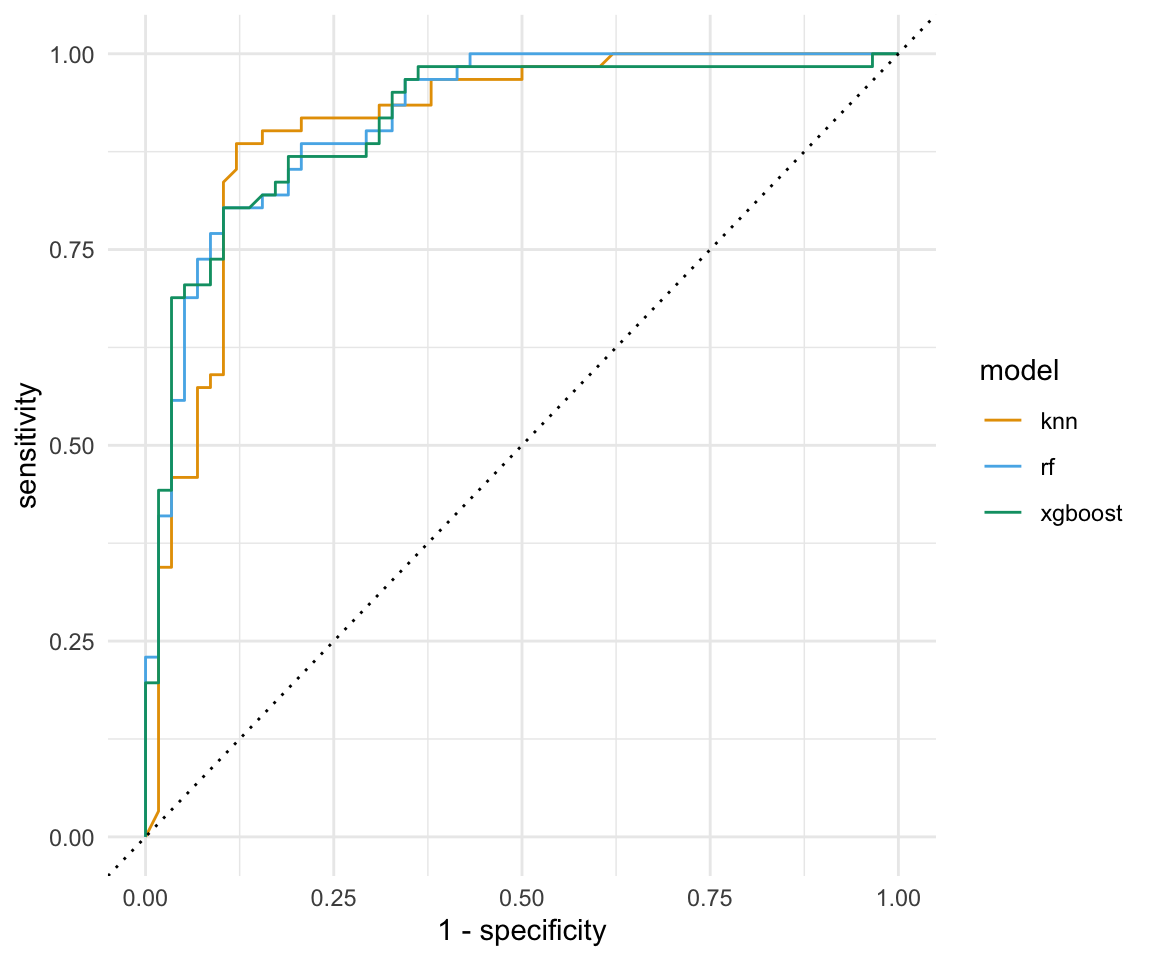
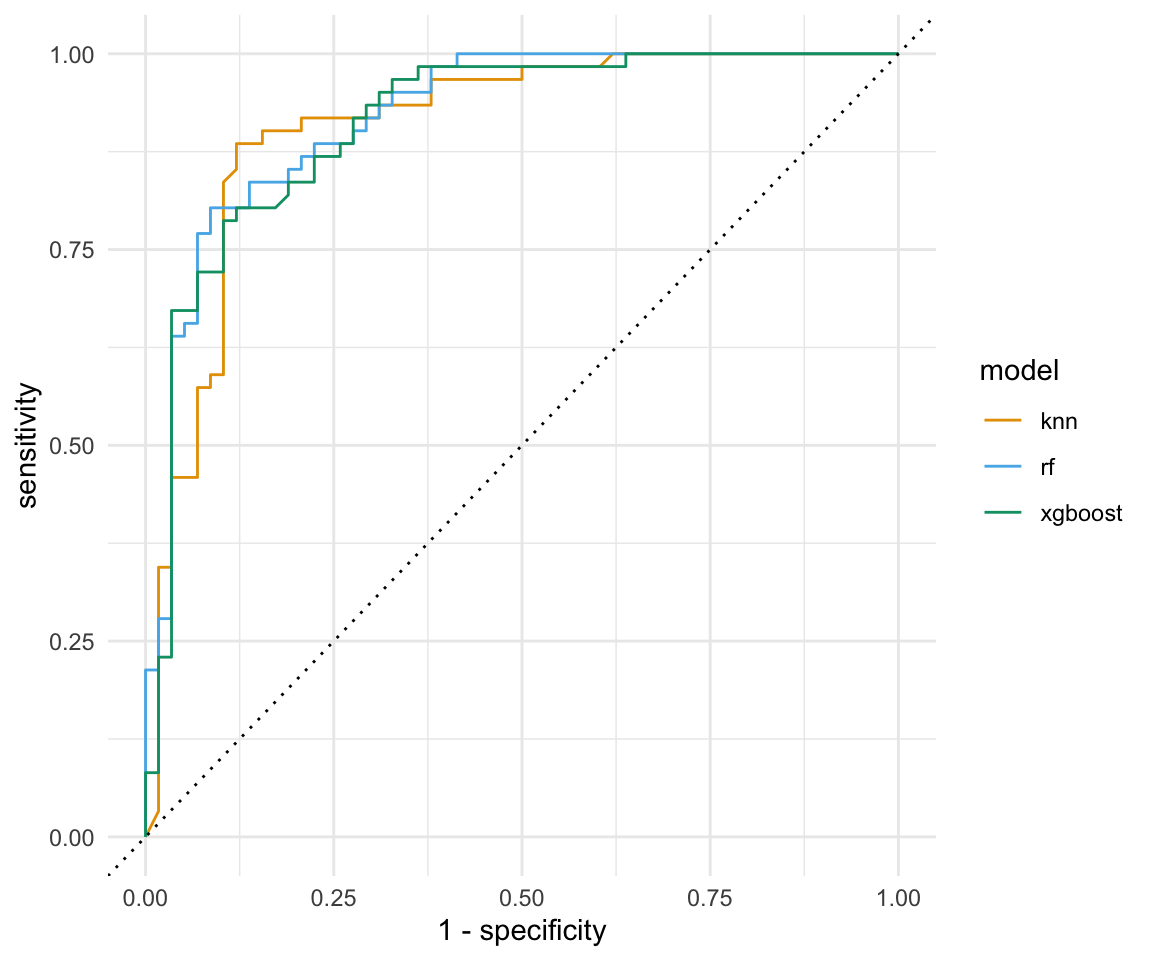
added text

diff --git a/docs/classification-model-compare.html b/docs/classification-model-compare.html
@@ -588,7 +588,7 @@ div.csl-indent {
 </header><div class="cell">
 
 </div>
-<p><em>Version vom December 02, 2022 um 13:55:12</em></p>
+<p><em>Version vom December 02, 2022 um 15:15:36</em></p>
 <div class="quarto-figure quarto-figure-center">
 <figure class="figure"><p><img src="images/caution.png" class="img-fluid figure-img" style="width:50.0%"></p>
 </figure>
@@ -773,7 +773,7 @@ Tuning und Resampling?
 5 gender     &lt;chr [3]&gt; outcome   original</code></pre>
 </div>
 </div>
-<p>Alles in allem haben wir ein sehr kleines Modell. Wir haben ja nur ein Outcome und vier Prädiktoren. Trotzdem sollte dieser Datensatz reichen um zu erklären wie Entscheidungsbäume funktionieren.</p>
+<p>Im Folgenden vergleichen wir einmal drei Algorithmen miteinander. Daher halten wir den Code für die Durchführung sehr kurz.</p>
 </section><section id="k-nn-algorithm" class="level2" data-number="56.3"><h2 data-number="56.3" class="anchored" data-anchor-id="k-nn-algorithm">
 <span class="header-section-number">56.3</span> <span class="math inline">\(k\)</span>-NN Algorithm</h2>
 <div class="callout-note callout callout-style-default callout-captioned">
@@ -789,23 +789,25 @@ Huch, der Code ist aber sehr kurz…
 <p>In diesem Teil halte ich den R Code sehr kurz, wenn du mehr über den <span class="math inline">\(k\)</span>-NN Algorithmus wissen willst, schaue bitte in <a href="classification-knn.html"><span>Kapitel&nbsp;52</span></a>.</p>
 </div>
 </div>
+<p>Für den <span class="math inline">\(k\)</span>-NN Algorithmus nutzen wir <span class="math inline">\(k=11\)</span> Nachbarn. Mehr brauchen wir hier nicht angeben.</p>
 <div class="cell">
 <div class="sourceCode" id="cb7"><pre class="downlit sourceCode r code-with-copy"><code class="sourceCode R"><span><span class="va">knn_mod</span> <span class="op">&lt;-</span> <span class="fu">nearest_neighbor</span><span class="op">(</span>neighbors <span class="op">=</span> <span class="fl">11</span><span class="op">)</span> <span class="op">%&gt;%</span> </span>
 <span>  <span class="fu">set_engine</span><span class="op">(</span><span class="st">"kknn"</span><span class="op">)</span> <span class="op">%&gt;%</span> </span>
 <span>  <span class="fu">set_mode</span><span class="op">(</span><span class="st">"classification"</span><span class="op">)</span> </span></code><button title="In die Zwischenablage kopieren" class="code-copy-button"><i class="bi"></i></button></pre></div>
 </div>
+<p>Dann nehmen wir das Modell für den <span class="math inline">\(k\)</span>-NN Algorithmus und verbinden das Modell mit dem Rezept für die Gummibärchendaten in einem Workflow.</p>
 <div class="cell">
 <div class="sourceCode" id="cb8"><pre class="downlit sourceCode r code-with-copy"><code class="sourceCode R"><span><span class="va">knn_wflow</span> <span class="op">&lt;-</span> <span class="fu">workflow</span><span class="op">(</span><span class="op">)</span> <span class="op">%&gt;%</span> </span>
 <span>  <span class="fu">add_model</span><span class="op">(</span><span class="va">knn_mod</span><span class="op">)</span> <span class="op">%&gt;%</span> </span>
 <span>  <span class="fu">add_recipe</span><span class="op">(</span><span class="va">gummi_rec</span><span class="op">)</span></span></code><button title="In die Zwischenablage kopieren" class="code-copy-button"><i class="bi"></i></button></pre></div>
 </div>
+<p>Nun können wir auch schon den Fit des Modells rechnen und in einem Rutsch den Fit auch gleich auf die Testdaten anwenden.</p>
 <div class="cell">
-<div class="sourceCode" id="cb9"><pre class="downlit sourceCode r code-with-copy"><code class="sourceCode R"><span><span class="va">knn_fit</span> <span class="op">&lt;-</span> <span class="va">knn_wflow</span> <span class="op">%&gt;%</span> </span>
-<span>  <span class="fu">parsnip</span><span class="fu">::</span><span class="fu"><a href="https://generics.r-lib.org/reference/fit.html">fit</a></span><span class="op">(</span><span class="va">gummi_train_data</span><span class="op">)</span></span></code><button title="In die Zwischenablage kopieren" class="code-copy-button"><i class="bi"></i></button></pre></div>
+<div class="sourceCode" id="cb9"><pre class="downlit sourceCode r code-with-copy"><code class="sourceCode R"><span><span class="va">knn_aug</span> <span class="op">&lt;-</span> <span class="va">knn_wflow</span> <span class="op">%&gt;%</span> </span>
+<span>  <span class="fu">parsnip</span><span class="fu">::</span><span class="fu"><a href="https://generics.r-lib.org/reference/fit.html">fit</a></span><span class="op">(</span><span class="va">gummi_train_data</span><span class="op">)</span> <span class="op">%&gt;%</span> </span>
+<span>   <span class="fu">augment</span><span class="op">(</span><span class="va">gummi_test_data</span><span class="op">)</span></span></code><button title="In die Zwischenablage kopieren" class="code-copy-button"><i class="bi"></i></button></pre></div>
 </div>
-<div class="cell">
-<div class="sourceCode" id="cb10"><pre class="downlit sourceCode r code-with-copy"><code class="sourceCode R"><span><span class="va">knn_aug</span> <span class="op">&lt;-</span> <span class="fu">augment</span><span class="op">(</span><span class="va">knn_fit</span>, <span class="va">gummi_test_data</span> <span class="op">)</span> </span></code><button title="In die Zwischenablage kopieren" class="code-copy-button"><i class="bi"></i></button></pre></div>
-</div>
+<p>Mehr wollen wir hier auch nicht. Wir brauchen nur die Prädiktion, da wir hier ja nur das Konzept der Modellvergleiche einmal durchgehen wollen.</p>
 </section><section id="random-forest" class="level2" data-number="56.4"><h2 data-number="56.4" class="anchored" data-anchor-id="random-forest">
 <span class="header-section-number">56.4</span> Random Forest</h2>
 <div class="callout-note callout callout-style-default callout-captioned">
@@ -821,46 +823,25 @@ Huch, der Code ist aber sehr kurz…
 <p>In diesem Teil halte ich den R Code sehr kurz, wenn du mehr über den Random Forest Algorithmus wissen willst, schaue bitte in <a href="classification-randomforest.html#sec-rf"><span>Kapitel&nbsp;53.4</span></a>.</p>
 </div>
 </div>
-<div class="callout-caution callout callout-style-default callout-captioned">
-<div class="callout-header d-flex align-content-center" data-bs-toggle="collapse" data-bs-target=".callout-4-contents" aria-controls="callout-4" aria-expanded="false" aria-label="Toggle callout">
-<div class="callout-icon-container">
-<i class="callout-icon"></i>
-</div>
-<div class="callout-caption-container flex-fill">
-Parallele CPU Nutzung
-</div>
-<div class="callout-btn-toggle d-inline-block border-0 py-1 ps-1 pe-0 float-end"><i class="callout-toggle"></i></div>
-</div>
-<div id="callout-4" class="callout-4-contents callout-collapse collapse">
-<div class="callout-body-container callout-body">
+<p>Für den Random Forest Algorithmus nutzen wir drei Variablen je Baum (<code>mtry = 3</code>), mindestens zehn Beobachtungen je Knoten (<code>min_n = 10</code>) sowei eintausend gewaschsene Bäume in unserem Wald (<code>trees = 1000</code>). Mehr brauchen wir hier nicht angeben.</p>
 <div class="cell">
-<div class="sourceCode" id="cb11"><pre class="downlit sourceCode r code-with-copy"><code class="sourceCode R"><span><span class="va">cores</span> <span class="op">&lt;-</span> <span class="fu">parallel</span><span class="fu">::</span><span class="fu"><a href="https://rdrr.io/r/parallel/detectCores.html">detectCores</a></span><span class="op">(</span><span class="op">)</span></span>
-<span><span class="va">cores</span></span></code><button title="In die Zwischenablage kopieren" class="code-copy-button"><i class="bi"></i></button></pre></div>
-<div class="cell-output cell-output-stdout">
-<pre><code>[1] 8</code></pre>
-</div>
-</div>
-<p>Und dann in <code>set_engine("ranger", num.threads = cores)</code></p>
-</div>
-</div>
-</div>
-<div class="cell">
-<div class="sourceCode" id="cb13"><pre class="downlit sourceCode r code-with-copy"><code class="sourceCode R"><span><span class="va">ranger_mod</span> <span class="op">&lt;-</span> <span class="fu">rand_forest</span><span class="op">(</span>mtry <span class="op">=</span> <span class="fl">5</span>, min_n <span class="op">=</span> <span class="fl">10</span>, trees <span class="op">=</span> <span class="fl">1000</span><span class="op">)</span> <span class="op">%&gt;%</span> </span>
+<div class="sourceCode" id="cb10"><pre class="downlit sourceCode r code-with-copy"><code class="sourceCode R"><span><span class="va">ranger_mod</span> <span class="op">&lt;-</span> <span class="fu">rand_forest</span><span class="op">(</span>mtry <span class="op">=</span> <span class="fl">3</span>, min_n <span class="op">=</span> <span class="fl">10</span>, trees <span class="op">=</span> <span class="fl">1000</span><span class="op">)</span> <span class="op">%&gt;%</span> </span>
 <span>  <span class="fu">set_engine</span><span class="op">(</span><span class="st">"ranger"</span><span class="op">)</span> <span class="op">%&gt;%</span> </span>
 <span>  <span class="fu">set_mode</span><span class="op">(</span><span class="st">"classification"</span><span class="op">)</span></span></code><button title="In die Zwischenablage kopieren" class="code-copy-button"><i class="bi"></i></button></pre></div>
 </div>
+<p>Dann nehmen wir das Modell für den Random Forest Algorithmus und verbinden das Modell mit dem Rezept für die Gummibärchendaten in einem Workflow.</p>
 <div class="cell">
-<div class="sourceCode" id="cb14"><pre class="downlit sourceCode r code-with-copy"><code class="sourceCode R"><span><span class="va">ranger_wflow</span> <span class="op">&lt;-</span> <span class="fu">workflow</span><span class="op">(</span><span class="op">)</span> <span class="op">%&gt;%</span> </span>
+<div class="sourceCode" id="cb11"><pre class="downlit sourceCode r code-with-copy"><code class="sourceCode R"><span><span class="va">ranger_wflow</span> <span class="op">&lt;-</span> <span class="fu">workflow</span><span class="op">(</span><span class="op">)</span> <span class="op">%&gt;%</span> </span>
 <span>  <span class="fu">add_model</span><span class="op">(</span><span class="va">ranger_mod</span><span class="op">)</span> <span class="op">%&gt;%</span> </span>
 <span>  <span class="fu">add_recipe</span><span class="op">(</span><span class="va">gummi_rec</span><span class="op">)</span></span></code><button title="In die Zwischenablage kopieren" class="code-copy-button"><i class="bi"></i></button></pre></div>
 </div>
+<p>Nun können wir auch schon den Fit des Modells rechnen und in einem Rutsch den Fit auch gleich auf die Testdaten anwenden.</p>
 <div class="cell">
-<div class="sourceCode" id="cb15"><pre class="downlit sourceCode r code-with-copy"><code class="sourceCode R"><span><span class="va">ranger_fit</span> <span class="op">&lt;-</span> <span class="va">ranger_wflow</span> <span class="op">%&gt;%</span> </span>
-<span>  <span class="fu">parsnip</span><span class="fu">::</span><span class="fu"><a href="https://generics.r-lib.org/reference/fit.html">fit</a></span><span class="op">(</span><span class="va">gummi_train_data</span><span class="op">)</span></span></code><button title="In die Zwischenablage kopieren" class="code-copy-button"><i class="bi"></i></button></pre></div>
+<div class="sourceCode" id="cb12"><pre class="downlit sourceCode r code-with-copy"><code class="sourceCode R"><span><span class="va">ranger_aug</span> <span class="op">&lt;-</span> <span class="va">ranger_wflow</span> <span class="op">%&gt;%</span> </span>
+<span>  <span class="fu">parsnip</span><span class="fu">::</span><span class="fu"><a href="https://generics.r-lib.org/reference/fit.html">fit</a></span><span class="op">(</span><span class="va">gummi_train_data</span><span class="op">)</span> <span class="op">%&gt;%</span> </span>
+<span>  <span class="fu">augment</span><span class="op">(</span><span class="va">gummi_test_data</span> <span class="op">)</span> </span></code><button title="In die Zwischenablage kopieren" class="code-copy-button"><i class="bi"></i></button></pre></div>
 </div>
-<div class="cell">
-<div class="sourceCode" id="cb16"><pre class="downlit sourceCode r code-with-copy"><code class="sourceCode R"><span><span class="va">ranger_aug</span> <span class="op">&lt;-</span> <span class="fu">augment</span><span class="op">(</span><span class="va">ranger_fit</span>, <span class="va">gummi_test_data</span> <span class="op">)</span> </span></code><button title="In die Zwischenablage kopieren" class="code-copy-button"><i class="bi"></i></button></pre></div>
-</div>
+<p>Mehr wollen wir hier auch nicht von dem Random Forest Algorithmus. Wir brauchen nur die Prädiktion, da wir hier ja nur das Konzept der Modellvergleiche einmal durchgehen wollen.</p>
 </section><section id="xgboost" class="level2" data-number="56.5"><h2 data-number="56.5" class="anchored" data-anchor-id="xgboost">
 <span class="header-section-number">56.5</span> xgboost</h2>
 <div class="callout-note callout callout-style-default callout-captioned">
@@ -876,36 +857,38 @@ Huch, der Code ist aber sehr kurz…
 <p>In diesem Teil halte ich den R Code sehr kurz, wenn du mehr über den xgboost Algorithmus wissen willst, schaue bitte in <a href="classification-randomforest.html#sec-xgboost"><span>Kapitel&nbsp;53.5</span></a>.</p>
 </div>
 </div>
+<p>Für den xgboost Algorithmus nutzen wir drei Variablen je Baum (<code>mtry = 3</code>), mindestens zehn Beobachtungen je Knoten (<code>min_n = 10</code>) sowei eintausend gewaschsene Bäume in unserem Wald (<code>trees = 1000</code>). Mehr brauchen wir hier nicht angeben.</p>
 <div class="cell">
-<div class="sourceCode" id="cb17"><pre class="downlit sourceCode r code-with-copy"><code class="sourceCode R"><span><span class="va">xgboost_mod</span> <span class="op">&lt;-</span> <span class="fu">boost_tree</span><span class="op">(</span>mtry <span class="op">=</span> <span class="fl">5</span>, min_n <span class="op">=</span> <span class="fl">10</span>, trees <span class="op">=</span> <span class="fl">1000</span><span class="op">)</span> <span class="op">%&gt;%</span> </span>
+<div class="sourceCode" id="cb13"><pre class="downlit sourceCode r code-with-copy"><code class="sourceCode R"><span><span class="va">xgboost_mod</span> <span class="op">&lt;-</span> <span class="fu">boost_tree</span><span class="op">(</span>mtry <span class="op">=</span> <span class="fl">3</span>, min_n <span class="op">=</span> <span class="fl">10</span>, trees <span class="op">=</span> <span class="fl">1000</span><span class="op">)</span> <span class="op">%&gt;%</span> </span>
 <span>  <span class="fu">set_engine</span><span class="op">(</span><span class="st">"xgboost"</span><span class="op">)</span> <span class="op">%&gt;%</span> </span>
 <span>  <span class="fu">set_mode</span><span class="op">(</span><span class="st">"classification"</span><span class="op">)</span></span></code><button title="In die Zwischenablage kopieren" class="code-copy-button"><i class="bi"></i></button></pre></div>
 </div>
+<p>Dann nehmen wir das Modell für den xgboost Algorithmus und verbinden das Modell mit dem Rezept für die Gummibärchendaten in einem Workflow.</p>
 <div class="cell">
-<div class="sourceCode" id="cb18"><pre class="downlit sourceCode r code-with-copy"><code class="sourceCode R"><span><span class="va">xgboost_wflow</span> <span class="op">&lt;-</span> <span class="fu">workflow</span><span class="op">(</span><span class="op">)</span> <span class="op">%&gt;%</span> </span>
+<div class="sourceCode" id="cb14"><pre class="downlit sourceCode r code-with-copy"><code class="sourceCode R"><span><span class="va">xgboost_wflow</span> <span class="op">&lt;-</span> <span class="fu">workflow</span><span class="op">(</span><span class="op">)</span> <span class="op">%&gt;%</span> </span>
 <span>  <span class="fu">add_model</span><span class="op">(</span><span class="va">xgboost_mod</span><span class="op">)</span> <span class="op">%&gt;%</span> </span>
 <span>  <span class="fu">add_recipe</span><span class="op">(</span><span class="va">gummi_rec</span><span class="op">)</span></span></code><button title="In die Zwischenablage kopieren" class="code-copy-button"><i class="bi"></i></button></pre></div>
 </div>
+<p>Nun können wir auch schon den Fit des Modells rechnen und in einem Rutsch den Fit auch gleich auf die Testdaten anwenden.</p>
 <div class="cell">
-<div class="sourceCode" id="cb19"><pre class="downlit sourceCode r code-with-copy"><code class="sourceCode R"><span><span class="va">xgboost_fit</span> <span class="op">&lt;-</span> <span class="va">xgboost_wflow</span> <span class="op">%&gt;%</span> </span>
-<span>  <span class="fu">parsnip</span><span class="fu">::</span><span class="fu"><a href="https://generics.r-lib.org/reference/fit.html">fit</a></span><span class="op">(</span><span class="va">gummi_train_data</span><span class="op">)</span></span></code><button title="In die Zwischenablage kopieren" class="code-copy-button"><i class="bi"></i></button></pre></div>
+<div class="sourceCode" id="cb15"><pre class="downlit sourceCode r code-with-copy"><code class="sourceCode R"><span><span class="va">xgboost_aug</span> <span class="op">&lt;-</span> <span class="va">xgboost_wflow</span> <span class="op">%&gt;%</span> </span>
+<span>  <span class="fu">parsnip</span><span class="fu">::</span><span class="fu"><a href="https://generics.r-lib.org/reference/fit.html">fit</a></span><span class="op">(</span><span class="va">gummi_train_data</span><span class="op">)</span> <span class="op">%&gt;%</span> </span>
+<span>  <span class="fu">augment</span><span class="op">(</span><span class="va">gummi_test_data</span> <span class="op">)</span> </span></code><button title="In die Zwischenablage kopieren" class="code-copy-button"><i class="bi"></i></button></pre></div>
 </div>
-<div class="cell">
-<div class="sourceCode" id="cb20"><pre class="downlit sourceCode r code-with-copy"><code class="sourceCode R"><span><span class="va">xgboost_aug</span> <span class="op">&lt;-</span> <span class="fu">augment</span><span class="op">(</span><span class="va">xgboost_fit</span>, <span class="va">gummi_test_data</span> <span class="op">)</span> </span></code><button title="In die Zwischenablage kopieren" class="code-copy-button"><i class="bi"></i></button></pre></div>
-</div>
+<p>Das war jetzt der dritte und letzte Algorithmus. Wir brauchen auch hier nur die Prädiktion, da wir hier ja nur das Konzept der Modellvergleiche einmal durchgehen wollen.</p>
 </section><section id="sec-class-model-compare" class="level2 page-columns page-full" data-number="56.6"><h2 data-number="56.6" class="anchored" data-anchor-id="sec-class-model-compare">
 <span class="header-section-number">56.6</span> Vergleich der Modelle</h2>
 <div class="cell">
-<div class="sourceCode" id="cb21"><pre class="downlit sourceCode r code-with-copy"><code class="sourceCode R"><span><span class="va">aug_lst</span> <span class="op">&lt;-</span> <span class="fu">lst</span><span class="op">(</span>knn <span class="op">=</span> <span class="va">knn_aug</span>,</span>
+<div class="sourceCode" id="cb16"><pre class="downlit sourceCode r code-with-copy"><code class="sourceCode R"><span><span class="va">aug_lst</span> <span class="op">&lt;-</span> <span class="fu">lst</span><span class="op">(</span>knn <span class="op">=</span> <span class="va">knn_aug</span>,</span>
 <span>               rf <span class="op">=</span> <span class="va">ranger_aug</span>,</span>
 <span>               xgboost <span class="op">=</span> <span class="va">xgboost_aug</span><span class="op">)</span></span></code><button title="In die Zwischenablage kopieren" class="code-copy-button"><i class="bi"></i></button></pre></div>
 </div>
 <div class="cell">
-<div class="sourceCode" id="cb22"><pre class="downlit sourceCode r code-with-copy"><code class="sourceCode R"><span><span class="va">conf_mat_lst</span> <span class="op">&lt;-</span> <span class="va">aug_lst</span> <span class="op">%&gt;%</span> </span>
+<div class="sourceCode" id="cb17"><pre class="downlit sourceCode r code-with-copy"><code class="sourceCode R"><span><span class="va">conf_mat_lst</span> <span class="op">&lt;-</span> <span class="va">aug_lst</span> <span class="op">%&gt;%</span> </span>
 <span>  <span class="fu">map</span><span class="op">(</span><span class="op">~</span><span class="fu">conf_mat</span><span class="op">(</span><span class="va">.x</span>, <span class="va">gender</span>, <span class="va">.pred_class</span><span class="op">)</span><span class="op">)</span></span></code><button title="In die Zwischenablage kopieren" class="code-copy-button"><i class="bi"></i></button></pre></div>
 </div>
 <div class="cell">
-<div class="sourceCode" id="cb23"><pre class="downlit sourceCode r code-with-copy"><code class="sourceCode R"><span><span class="va">conf_mat_lst</span> <span class="op">%&gt;%</span> </span>
+<div class="sourceCode" id="cb18"><pre class="downlit sourceCode r code-with-copy"><code class="sourceCode R"><span><span class="va">conf_mat_lst</span> <span class="op">%&gt;%</span> </span>
 <span>  <span class="fu">map</span><span class="op">(</span><span class="va">summary</span><span class="op">)</span> <span class="op">%&gt;%</span> </span>
 <span>  <span class="fu">map</span><span class="op">(</span><span class="op">~</span><span class="fu">select</span><span class="op">(</span><span class="va">.x</span>, <span class="va">.metric</span>, <span class="va">.estimate</span><span class="op">)</span><span class="op">)</span> <span class="op">%&gt;%</span> </span>
 <span>  <span class="fu">reduce</span><span class="op">(</span><span class="va">left_join</span>, by <span class="op">=</span> <span class="st">".metric"</span><span class="op">)</span> <span class="op">%&gt;%</span> </span>
@@ -915,24 +898,24 @@ Huch, der Code ist aber sehr kurz…
 <pre><code># A tibble: 13 × 4
    metric                 knn    rf xboost
    &lt;chr&gt;                &lt;dbl&gt; &lt;dbl&gt;  &lt;dbl&gt;
- 1 accuracy             0.882 0.824  0.84 
- 2 kap                  0.765 0.647  0.681
- 3 sens                 0.879 0.845  0.879
- 4 spec                 0.885 0.803  0.803
- 5 ppv                  0.879 0.803  0.81 
- 6 npv                  0.885 0.845  0.875
- 7 mcc                  0.765 0.648  0.684
- 8 j_index              0.765 0.648  0.683
- 9 bal_accuracy         0.882 0.824  0.841
+ 1 accuracy             0.882 0.84   0.84 
+ 2 kap                  0.765 0.681  0.681
+ 3 sens                 0.879 0.862  0.879
+ 4 spec                 0.885 0.82   0.803
+ 5 ppv                  0.879 0.82   0.81 
+ 6 npv                  0.885 0.862  0.875
+ 7 mcc                  0.765 0.682  0.684
+ 8 j_index              0.765 0.682  0.683
+ 9 bal_accuracy         0.882 0.841  0.841
 10 detection_prevalence 0.487 0.513  0.529
-11 precision            0.879 0.803  0.81 
-12 recall               0.879 0.845  0.879
-13 f_meas               0.879 0.824  0.843</code></pre>
+11 precision            0.879 0.82   0.81 
+12 recall               0.879 0.862  0.879
+13 f_meas               0.879 0.84   0.843</code></pre>
 </div>
 </div>
 <p>Einmal die Konfusionsmatrix für den xgboost Algorithmus aus R.</p>
 <div class="cell">
-<div class="sourceCode" id="cb25"><pre class="downlit sourceCode r code-with-copy"><code class="sourceCode R"><span><span class="fu">pluck</span><span class="op">(</span><span class="va">conf_mat_lst</span>, <span class="st">"xgboost"</span><span class="op">)</span></span></code><button title="In die Zwischenablage kopieren" class="code-copy-button"><i class="bi"></i></button></pre></div>
+<div class="sourceCode" id="cb20"><pre class="downlit sourceCode r code-with-copy"><code class="sourceCode R"><span><span class="fu">pluck</span><span class="op">(</span><span class="va">conf_mat_lst</span>, <span class="st">"xgboost"</span><span class="op">)</span></span></code><button title="In die Zwischenablage kopieren" class="code-copy-button"><i class="bi"></i></button></pre></div>
 <div class="cell-output cell-output-stdout">
 <pre><code>          Truth
 Prediction  m  w
@@ -941,7 +924,7 @@ Prediction  m  w
 </div>
 </div>
 <div class="cell">
-<div class="sourceCode" id="cb27"><pre class="downlit sourceCode r code-with-copy"><code class="sourceCode R"><span><span class="va">xgboost_aug</span><span class="op">$</span><span class="va">.pred_class</span> <span class="op">%&gt;%</span> <span class="va">tabyl</span> </span></code><button title="In die Zwischenablage kopieren" class="code-copy-button"><i class="bi"></i></button></pre></div>
+<div class="sourceCode" id="cb22"><pre class="downlit sourceCode r code-with-copy"><code class="sourceCode R"><span><span class="va">xgboost_aug</span><span class="op">$</span><span class="va">.pred_class</span> <span class="op">%&gt;%</span> <span class="va">tabyl</span> </span></code><button title="In die Zwischenablage kopieren" class="code-copy-button"><i class="bi"></i></button></pre></div>
 <div class="cell-output cell-output-stdout">
 <pre><code> .  n    percent
  m 63 0.52941176
@@ -949,7 +932,7 @@ Prediction  m  w
 </div>
 </div>
 <div class="cell">
-<div class="sourceCode" id="cb29"><pre class="downlit sourceCode r code-with-copy"><code class="sourceCode R"><span><span class="va">xgboost_aug</span><span class="op">$</span><span class="va">gender</span> <span class="op">%&gt;%</span> <span class="va">tabyl</span> </span></code><button title="In die Zwischenablage kopieren" class="code-copy-button"><i class="bi"></i></button></pre></div>
+<div class="sourceCode" id="cb24"><pre class="downlit sourceCode r code-with-copy"><code class="sourceCode R"><span><span class="va">xgboost_aug</span><span class="op">$</span><span class="va">gender</span> <span class="op">%&gt;%</span> <span class="va">tabyl</span> </span></code><button title="In die Zwischenablage kopieren" class="code-copy-button"><i class="bi"></i></button></pre></div>
 <div class="cell-output cell-output-stdout">
 <pre><code> .  n    percent
  m 58 0.48739496
@@ -1140,17 +1123,17 @@ F_1 = \cfrac{2 \cdot TP}{2 \cdot TP + FP + FN} = \cfrac{2 \cdot 51}{2 \cdot 51 +
 </section><section id="roc-precision-recall-kurven" class="level5 unnumbered page-columns page-full"><h5 class="unnumbered anchored" data-anchor-id="roc-precision-recall-kurven">ROC &amp; Precision recall Kurven</h5>
 <div class="page-columns page-full"><p></p><div class="no-row-height column-margin column-container"><span class="aside">In dem <a href="stat-tests-diagnostic.html"><span>Kapitel&nbsp;29</span></a> erfährst du mehr darüber was eine ROC Kurve ist und wie du die ROC Kurve interpretieren kannst.</span></div></div>
 <div class="cell">
-<div class="sourceCode" id="cb31"><pre class="downlit sourceCode r code-with-copy"><code class="sourceCode R"><span><span class="va">roc_tbl</span> <span class="op">&lt;-</span> <span class="va">aug_lst</span> <span class="op">%&gt;%</span> </span>
+<div class="sourceCode" id="cb26"><pre class="downlit sourceCode r code-with-copy"><code class="sourceCode R"><span><span class="va">roc_tbl</span> <span class="op">&lt;-</span> <span class="va">aug_lst</span> <span class="op">%&gt;%</span> </span>
 <span>  <span class="fu">map</span><span class="op">(</span><span class="op">~</span><span class="fu">roc_curve</span><span class="op">(</span><span class="va">.x</span>, <span class="va">gender</span>, <span class="va">.pred_w</span>, event_level <span class="op">=</span> <span class="st">"second"</span><span class="op">)</span><span class="op">)</span> <span class="op">%&gt;%</span> </span>
 <span>  <span class="fu">bind_rows</span><span class="op">(</span>.id <span class="op">=</span> <span class="st">"model"</span><span class="op">)</span></span></code><button title="In die Zwischenablage kopieren" class="code-copy-button"><i class="bi"></i></button></pre></div>
 </div>
 <div class="cell">
-<div class="sourceCode" id="cb32"><pre class="downlit sourceCode r code-with-copy"><code class="sourceCode R"><span><span class="va">pr_tbl</span> <span class="op">&lt;-</span> <span class="va">aug_lst</span> <span class="op">%&gt;%</span> </span>
+<div class="sourceCode" id="cb27"><pre class="downlit sourceCode r code-with-copy"><code class="sourceCode R"><span><span class="va">pr_tbl</span> <span class="op">&lt;-</span> <span class="va">aug_lst</span> <span class="op">%&gt;%</span> </span>
 <span>  <span class="fu">map</span><span class="op">(</span><span class="op">~</span><span class="fu">pr_curve</span><span class="op">(</span><span class="va">.x</span>, <span class="va">gender</span>, <span class="va">.pred_w</span>, event_level <span class="op">=</span> <span class="st">"second"</span><span class="op">)</span><span class="op">)</span> <span class="op">%&gt;%</span> </span>
 <span>  <span class="fu">bind_rows</span><span class="op">(</span>.id <span class="op">=</span> <span class="st">"model"</span><span class="op">)</span></span></code><button title="In die Zwischenablage kopieren" class="code-copy-button"><i class="bi"></i></button></pre></div>
 </div>
 <div class="page-columns page-full">
-<div class="sourceCode" id="cb33"><pre class="downlit sourceCode r code-with-copy"><code class="sourceCode R"><span><span class="va">roc_tbl</span> <span class="op">%&gt;%</span> </span>
+<div class="sourceCode" id="cb28"><pre class="downlit sourceCode r code-with-copy"><code class="sourceCode R"><span><span class="va">roc_tbl</span> <span class="op">%&gt;%</span> </span>
 <span>  <span class="fu">ggplot</span><span class="op">(</span><span class="fu">aes</span><span class="op">(</span>x <span class="op">=</span> <span class="fl">1</span> <span class="op">-</span> <span class="va">specificity</span>, y <span class="op">=</span> <span class="va">sensitivity</span>, col <span class="op">=</span> <span class="va">model</span><span class="op">)</span><span class="op">)</span> <span class="op">+</span> </span>
 <span>  <span class="fu">theme_minimal</span><span class="op">(</span><span class="op">)</span> <span class="op">+</span></span>
 <span>  <span class="fu">geom_path</span><span class="op">(</span><span class="op">)</span> <span class="op">+</span></span>
